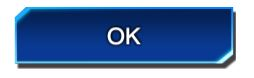
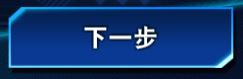
1.0.9

diff --git a/YGOScript/testYGOSDoor.py b/YGOScript/testYGOSDoor.py
@@ -42,12 +42,12 @@ class testYGOScript(unittest.TestCase):
             return pos
     #check whether the text is in the given fixed area of a rect
     @staticmethod
-    def exists_text(text,rect,angle=0):
+    def exists_text(text,rect,angle=0,lan="chi_sim"):
         img=crop_image(testYGOScript.dev.snapshot(),rect)
         if angle!=0:
             img=rotate_image(img,angle)
         img=preprocessImg(img)
-        textImg=pytesseract.image_to_string(img,lang="eng",config="--psm 7 --oem 3")
+        textImg=pytesseract.image_to_string(img,lang=lan,config="--psm 7 --oem 3")
         if text in textImg:
             return True
         return False
@@ -84,7 +84,7 @@ class testYGOScript(unittest.TestCase):
     def skip_talk():
         flag=False
         while True:
-            area_img=crop_image(testYGOScript.dev.snapshot(),[758,766,761,769])
+            area_img=crop_image(testYGOScript.dev.snapshot(),[1258, 1015, 1261, 1018])
             for line in area_img:
                 for pix in line:
                     if pix[0]==255 and pix[1]==255 and pix[2]==255:
@@ -92,12 +92,12 @@ class testYGOScript(unittest.TestCase):
             if flag:
                 break
         while True:
-            area_img=crop_image(testYGOScript.dev.snapshot(),[758,766,761,769])
+            area_img=crop_image(testYGOScript.dev.snapshot(),[1258, 1015, 1261, 1018])
             for line in area_img:
                 for pix in line:
                     if pix[0]!=255 or pix[1]!=255 or pix[2]!=255:
                         return
-            testYGOScript.press(cursor_pos=[817,877])
+            testYGOScript.press(cursor_pos=[858, 906])
 
 #preparation for the tests later - to set the dev as the application
 class testBeforeScript(testYGOScript):
@@ -111,59 +111,53 @@ class testBeforeScript(testYGOScript):
 #steps of entering the door
 class testEnterTheDoor(testYGOScript):
     def testEnterTheDoor():
-        if testYGOScript.exists_text("Information",[1197,36,1312,60]):
-            touch([947,440])
-        wait(Template(r"imgEnterTheDoor\\2.JPG"))
-        pos=exists(Template(r"imgEnterTheDoor\\2.JPG"))
+        if testYGOScript.exists_text("信息",[1286, 35, 1339, 60]):
+            touch([1025, 473])
+        wait(Template(r"imgEnterTheDoor\\1.JPG"))
+        pos=exists(Template(r"imgEnterTheDoor\\1.JPG"))
         if pos:
             touch(pos)
         sleep(0.5)
         testYGOScript.skip_talk()
-        wait(Template(r"imgEnterTheDoor\\2.JPG"))
-        pos=exists(Template(r"imgEnterTheDoor\\2.JPG"))
+        wait(Template(r"imgEnterTheDoor\\1.JPG"))
+        pos=exists(Template(r"imgEnterTheDoor\\1.JPG"))
         if pos:
             touch(pos)
         while True:
-            if testYGOScript.exists_text("Your Main Phase",[937,79,1107,103]) or testYGOScript.exists_text("Your Draw Phase",[937,79,1107,103]):
+            if testYGOScript.exists_text("你",[1035, 82, 1052, 101]):
                 break
-            testYGOScript.press(cursor_pos=[817,516])
-        sleep(0.5)
+            testYGOScript.press(cursor_pos=[900, 496])
 
 #steps of battle
 class testDueling(testYGOScript):
-    ATKrects=[[792,593,826,611],[899,593,933,610],[685,594,717,612]]
-    SwipePos=[[[839,583],[839,450]],[[950,583],[950,450]],[[732,583],[732,450]]]
+    ATKrects=[[850, 634, 887, 658],[963, 634, 1002, 658],[722, 627, 777, 660]]
+    SwipePos=[[[901, 600],[901,470]],[[1017, 600],[1017,470]],[[785, 600],[785,470]]]
     
     #operations of your draw phase
     def testDrawPhase():
-        if testYGOScript.exists_text("Your Draw Phase",[937,79,1107,103]):
-            sleep(1)
-            for i in range(0,9):
-                sleep(0.1)
-                testYGOScript.press([834,506])
+        sleep(1)
+        for i in range(0,9):
+            sleep(0.1)
+            testYGOScript.press([900, 496])
     
     #operations of your main phase
     def testMainPhase():
-        if testYGOScript.exists_text("Your Main Phase",[937,79,1107,103]):
-            if not testYGOScript.exists_text("ATK",testDueling.ATKrects[2]):
-                testYGOScript.dev.touch([830,906])
-                wait(Template(r"imgDueling\\1.JPG"))
-                pos=exists(Template(r"imgDueling\\1.JPG"))
-                if pos:
-                    touch(pos)
-            wait(Template(r"imgDueling\\2.JPG"))
-            pos=exists(Template(r"imgDueling\\2.JPG"))
-            if pos:
-                touch(pos)
-                sleep(0.1)
-                touch(pos)
+        if not testYGOScript.exists_text("T",testDueling.ATKrects[2]):
+            testYGOScript.dev.touch([865,972])
+            sleep(0.3)
+            touch([831, 776])
+        wait(Template(r"imgDueling\\2.JPG"))
+        pos=exists(Template(r"imgDueling\\2.JPG"))
+        if pos:
+            touch(pos)
+            sleep(0.1)
+            touch(pos)
     
     #operations of your battle phase
     def testBattlePhase():
-        if testYGOScript.exists_text("Your Battle Phase",[937,79,1107,103]):
-            for i in range(0,3):
-                if testDueling.isAttackToLose(i):
-                    return True
+        for i in range(0,3):
+            if testDueling.isAttackToWin(i):
+                return True
         wait(Template(r"imgDueling\\2.JPG"))
         pos=exists(Template(r"imgDueling\\2.JPG"))
         if pos:
@@ -174,40 +168,36 @@ class testDueling(testYGOScript):
         return False
 
     #check whether after this attack the enemy get 0 LP
-    def isAttackToLose(boardIndex):
-        if testYGOScript.exists_text("TK",testDueling.ATKrects[boardIndex]):
+    def isAttackToWin(boardIndex):
+        if testYGOScript.exists_text("T",testDueling.ATKrects[boardIndex]):
             testYGOScript.my_swipe(testDueling.SwipePos[boardIndex][0],testDueling.SwipePos[boardIndex][1])
             for i in range(0,2):
                 sleep(0.1)
                 testYGOScript.press(stop=True)
             sleep(1.5)
-            if testYGOScript.exists_text("LP: O",[1572,854,1659,898]) or testYGOScript.exists_text("LP: o",[1572,854,1659,898]):
-                while(not testYGOScript.exists_text("OK",[809,900,874,931])):
+            if testYGOScript.exists_text("LP: O",[1696, 925, 1783, 964],lan='eng') or testYGOScript.exists_text("LP: o",[1696, 925, 1783, 964],lan='eng'):
+                while(not testYGOScript.exists_text("好",[877, 970, 930, 1004])):
                     sleep(0.2)
-                if testYGOScript.exists_text("OK",[809,900,874,931]):
-                    touch([838,915])
+                touch([905,990])
                 return True
         return False
     
     #dueling
     def testDueling():
+        if testYGOScript.exists_text("1",[1126, 32, 1159, 78]):
+            testDueling.testMainPhase()
+            while(not testYGOScript.exists_text("你",[1035, 82, 1054, 101])):
+                pass
         for i in range(0,20):
-            if testYGOScript.exists_text("Your Main Phase",[937,79,1107,103]):
-                testDueling.testMainPhase()
-            else:
-                while not testYGOScript.exists_text("Your Draw Phase",[937,79,1107,103]):
-                    if testYGOScript.exists_text("LP: O",[1572,854,1659,898]) or testYGOScript.exists_text("LP: o",[1572,854,1659,898]):
-                        while(not testYGOScript.exists_text("OK",[809,900,874,931])):
-                            sleep(0.2)
-                        if testYGOScript.exists_text("OK",[809,900,874,931]):
-                            touch([838,915])
-                        return
-                testDueling.testDrawPhase()
-                testYGOScript.wait_text("Your Main Phase",[937,79,1107,103])
-                testDueling.testMainPhase()
-                testYGOScript.wait_text("Your Battle Phase",[937,79,1107,103])
-                if testDueling.testBattlePhase():
-                    return
+            testYGOScript.wait_text("抽卡",[1081, 76, 1132, 104])
+            testDueling.testDrawPhase()
+            testYGOScript.wait_text("行动",[1081, 76, 1132, 104])
+            testDueling.testMainPhase()
+            testYGOScript.wait_text("战斗",[1081, 76, 1132, 104])
+            if testDueling.testBattlePhase():
+                return
+            while(not testYGOScript.exists_text("你",[1035, 82, 1054, 101])):
+                pass
 
 #steps to end the battle to the main interface
 class testEnd(testYGOScript):
@@ -215,12 +205,10 @@ class testEnd(testYGOScript):
         while(True):
             for i in range(0,3):
                 testYGOScript.press(cursor_pos=[844,832])
-            if testYGOScript.exists_text("NEXT",[751,899,915,934]):
-                touch([840,919])
             pos=testYGOScript.my_exists(Template(r"imgEnd\\1.JPG"))
             if pos:
                 touch(pos)
-            if testYGOScript.exists_text("Information",[1197,36,1312,60]):
+            if testYGOScript.exists_text("信息",[1286, 35, 1339, 60]):
                 break
 
 if __name__=="__main__":

diff --git a/YGOScript/testYGOSPassersby.py b/YGOScript/testYGOSPassersby.py
@@ -138,7 +138,8 @@ class testFindPasserby(testYGOScript):
             for pos in testFindPasserby.recognizeFaces():
                 cond1=not testYGOScript.isInRect(pos,[635,490,737,632]) or not testYGOScript.exists_text("送门",[577, 945, 628, 962])
                 cond2=not testYGOScript.isInRect(pos,[737,616,778,668]) or not testYGOScript.exists_text("PvP",[717, 945, 752, 963])
-                if pos and cond1 and cond2:
+                cond3=not testYGOScript.isInRect(pos,[640, 684, 763, 794]) or not testYGOScript.exists_text("送门",[577, 945, 628, 962])
+                if pos and cond1 and cond2 and cond3:
                     facepos=pos
                     break
             if facepos!=None:

diff --git a/YGOScript/ScriptToolPointPosition.py b/YGOScript/ScriptToolPointPosition.py
@@ -18,7 +18,7 @@ win32gui.ShowWindow(hwnd, win32con.SW_RESTORE)
 dev_pos=dev.get_pos()
 tk.attributes("-alpha", 0.3)
 tk.attributes("-topmost", True)
-tk.geometry("1664x936"+"+"+str(dev_pos[0])+"+"+str(dev_pos[1]))
+tk.geometry("1792x1008"+"+"+str(dev_pos[0])+"+"+str(dev_pos[1]))
 while True:
     tk.update_idletasks()
     tk.update()
@@ -26,7 +26,7 @@ while True:
     if state!=state_release:
         if state < 0 and state!=prestate:
             cursor_pos=win32api.GetCursorPos()
-            print(cursor_pos[0]-dev_pos[0],cursor_pos[1]-dev_pos[1])
+            print([cursor_pos[0]-dev_pos[0],cursor_pos[1]-dev_pos[1]])
             tk.destroy()
             break
     prestate=state

diff --git a/YGOScript/ScriptToolTextRect.py b/YGOScript/ScriptToolTextRect.py
@@ -26,7 +26,7 @@ win32gui.ShowWindow(hwnd, win32con.SW_RESTORE)
 dev_pos=dev.get_pos()
 tk.attributes("-alpha", 0.3)
 tk.attributes("-topmost", True)
-tk.geometry("1664x936"+"+"+str(dev_pos[0])+"+"+str(dev_pos[1]))
+tk.geometry("1792x1008"+"+"+str(dev_pos[0])+"+"+str(dev_pos[1]))
 snapshot_rect=[]
 n=0
 frame=[]
@@ -50,5 +50,5 @@ while True:
 area_img=crop_image(dev.snapshot(),snapshot_rect)
 img=preprocessImg(area_img)
 print(frame)
-print(pytesseract.image_to_string(img,config="--psm 7 --oem 3",lang='chi_sim'))
+print(pytesseract.image_to_string(img,config="--psm 7 --oem 3",lang='eng'))
 show_origin_size(img,"asd")
